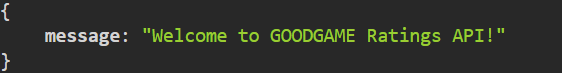
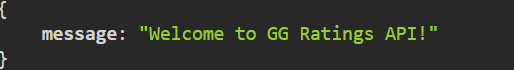
update working project name in README

Changed region(s): [[0.0623, 0.3714, 0.9027, 0.6286], [0.0, 0.0, 0.0311, 0.2857], [0.0, 0.7143, 0.0311, 0.9714]]

diff --git a/README.md b/README.md
@@ -12,11 +12,11 @@ introduction
 View API:
 [GG Ratings API](https://gameratings-api-d04888e8239b.herokuapp.com/)
 
-View Frontend Site:
+View Frontend Live Site:
 [GG Ratings](https://gameratings-frontend-2c9d8978da10.herokuapp.com/)
 
-API Repository:
-[API Repository](https://github.com/nicolemne/gameratings-api)
+Frontend Repository:
+[Frontend Repository](https://github.com/nicolemne/gameratings-frontend)
 
 ## **CONTENTS**
 * [Project management](#project-management)
@@ -25,7 +25,7 @@ API Repository:
   * [Entity relationship diagram](#entity-relationship-diagram)
   * [Future Implementations](#future-implementations)
 
-*  [Features of the GG Ratings API](#features-of-the-goodgame-api)
+*  [Features of the GG Ratings API](#features-of-the-gg-ratings-api)
    * [Admin Access](#admin-access)
    * [User Access](#user-access)
 
@@ -74,7 +74,7 @@ Key functionalities include:
 
 ## Agile Methodology
 
-The GOODGAME API project is managed using Agile methodology. The following tools and practices are used to ensure efficient project management:
+The GG Ratings API project is managed using Agile methodology. The following tools and practices are used to ensure efficient project management:
 
 - [Project Kanban Board](https://https://github.com/users/nicolemne/projects/9): The Kanban board helps us see the project's progress. It shows tasks in different stages like "To Do," "In Progress," and "Done," making it easy to track work and spot any issues.
 - [Milestones](https://github.com/nicolemne/gameratings-api/milestones): Milestones are major goals and deadlines for the project. Each milestone represents a big step or deliverable that needs to be finished by a certain date. This helps plan and track the progress towards the project's main goals.
@@ -103,8 +103,8 @@ The GOODGAME API project is managed using Agile methodology. The following tools
 include future implementations
 """
 
-# Features of the GOODGAME API
-The GOODGAME API consists of multiple apps, each with its unique model, views, URLs, and serializers. This structure provides a well-organized and scalable approach to managing the various aspects of the API.
+# Features of the GG Ratings API
+The GG Ratings API consists of multiple apps, each with its unique model, views, URLs, and serializers. This structure provides a well-organized and scalable approach to managing the various aspects of the API.
 
 ## Admin Access
 A superuser can log in through the Django admin site to manage the backend and administer the User model. This allows for efficient administration and control over user data and permissions. Additionally, only a superuser can add or delete new instances of the Platform and Genre models, however, all users can select a platform and genre when creating a new game instance. 
